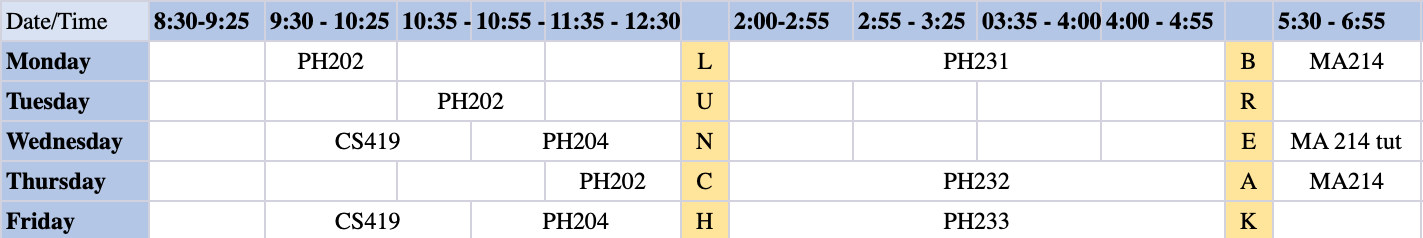
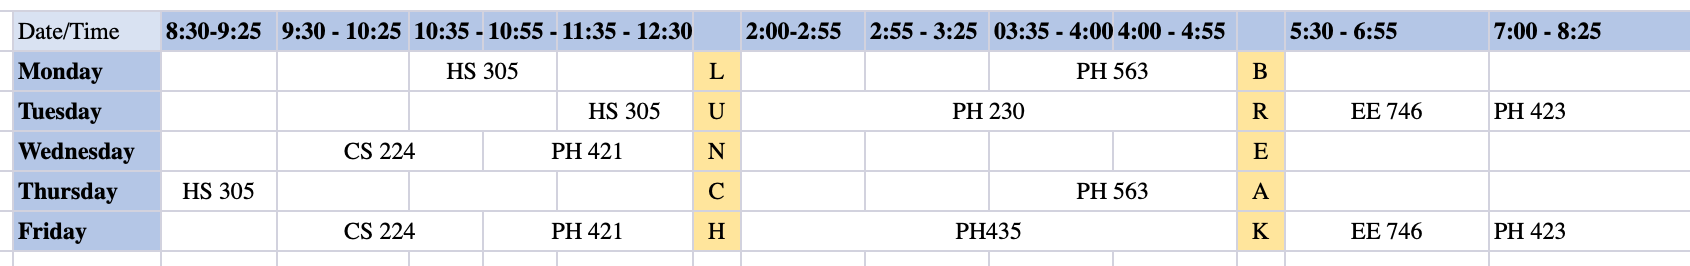
website update

diff --git a/acad.html b/acad.html
@@ -29,9 +29,9 @@
                     <li class="nav-item">
                         <a class="nav-link" href="resume.html">Resume</a>
                     </li>
-                    <li class="nav-item">
+                    <!--<li class="nav-item">
                         <a class="nav-link" href="#">Gallery</a>
-                    </li>
+                    </li>-->
                     <li class="nav-item">
                         <a class="nav-link" href="feedback.html">Feedback</a>
                     </li>
@@ -47,7 +47,7 @@
         </h1>
         <h2>
             My Timetable 
-            <small class="text-muted">(semester 4)</small>
+            <small class="text-muted">(semester 5)</small>
         </h2>
         <div class="row">
             <div class="col">
@@ -104,15 +104,31 @@
         <div class = "row">
             <div class = "col-md-4">
                 <h3><strong>Sem 4</strong></h3>
-                <p>The running semester (Online Sem part 2).</p>
+                <p>Online Sem part 2</p>
                 <ol>
                     <li>PH 202 Waves, Oscillations and Optics</li>
-                    <li>PH 204 Quantum Mechanics 1</li>
+                    <li>PH 204 Quantum Mechanics I</li>
                     <li>PH 231L Basic Circuits Lab</li>
                     <li>PH 232L General Physics Lab</li>
                     <li>PH 233L Op Amps Lab</li>
                     <li>MA 214 Numerical Analysis</li>
                     <li>CS 419 Introduction to Machine Learning</li>
+                </ol>
+            </div>
+        </div>
+        <div class = "row">
+            <div class = "col-md-4">
+                <h3><strong>Sem 5</strong></h3>
+                <p>Entering Year 3</p>
+                <ol>
+                    <li>PH 421 Photonics</li>
+                    <li>PH 423 Quantum Mechanics II</li>
+                    <li>PH 230L Digital Electronics Lab</li>
+                    <li>PH 435L Microprocessors Lab</li>
+                    <li>PH 563 Group Theory Methods in Physics</li>
+                    <li>CS 224 Networks</li>
+                    <li>EE 746 Neuromorphic Engineering</li>
+                    <li>HS 305 Reading Literature</li>
                 </ol>
             </div>
         </div>
@@ -127,7 +143,7 @@
                 <div class = "col-md-6 text-md-right">
                     <span class="text-dark">&#169; Shyam Iyer</span>
                     <span class = "text-muted mx-2">|</span>
-                    <span class="text-dark">2020</span>
+                    <span class="text-dark">2021</span>
                 </div>
             </div>
         </footer>

diff --git a/index.html b/index.html
@@ -30,9 +30,9 @@
                     <li class="nav-item">
                         <a class="nav-link" href="resume.html">Resume</a>
                     </li>
-                    <li class="nav-item">
+                    <!--<li class="nav-item">
                         <a class="nav-link" href="#">Gallery</a>
-                    </li>
+                    </li>-->
                     <li class="nav-item">
                         <a class="nav-link" href="feedback.html">Feedback</a>
                     </li>
@@ -81,7 +81,7 @@
                 <div class = "col-md-6 text-md-right">
                     <span class="text-dark">&#169; Shyam Iyer</span>
                     <span class = "text-muted mx-2">|</span>
-                    <span class="text-dark">2020</span>
+                    <span class="text-dark">2021</span>
                 </div>
             </div>
         </footer>

diff --git a/resume.html b/resume.html
@@ -29,9 +29,9 @@
                     <li class="nav-item active">
                         <a class="nav-link" href="#">Resume</a>
                     </li>
-                    <li class="nav-item">
+                    <!--<li class="nav-item">
                         <a class="nav-link" href="#">Gallery</a>
-                    </li>
+                    </li>-->
                     <li class="nav-item">
                         <a class="nav-link" href="feedback.html">Feedback</a>
                     </li>
@@ -66,7 +66,7 @@
                 <div class = "col-md-6 text-md-right">
                     <span class="text-dark">&#169; Shyam Iyer</span>
                     <span class = "text-muted mx-2">|</span>
-                    <span class="text-dark">2020</span>
+                    <span class="text-dark">2021</span>
                 </div>
             </div>
         </footer>

diff --git a/feedback.html b/feedback.html
@@ -29,9 +29,9 @@
                     <li class="nav-item">
                         <a class="nav-link" href="resume.html">Resume</a>
                     </li>
-                    <li class="nav-item">
+                    <!--<li class="nav-item">
                         <a class="nav-link" href="#">Gallery</a>
-                    </li>
+                    </li>-->
                     <li class="nav-item active">
                         <a class="nav-link" href="#">Feedback</a>
                     </li>
@@ -68,7 +68,7 @@
                 <div class = "col-md-6 text-md-right">
                     <span class="text-dark">&#169; Shyam Iyer</span>
                     <span class = "text-muted mx-2">|</span>
-                    <span class="text-dark">2020</span>
+                    <span class="text-dark">2021</span>
                 </div>
             </div>
         </footer>
